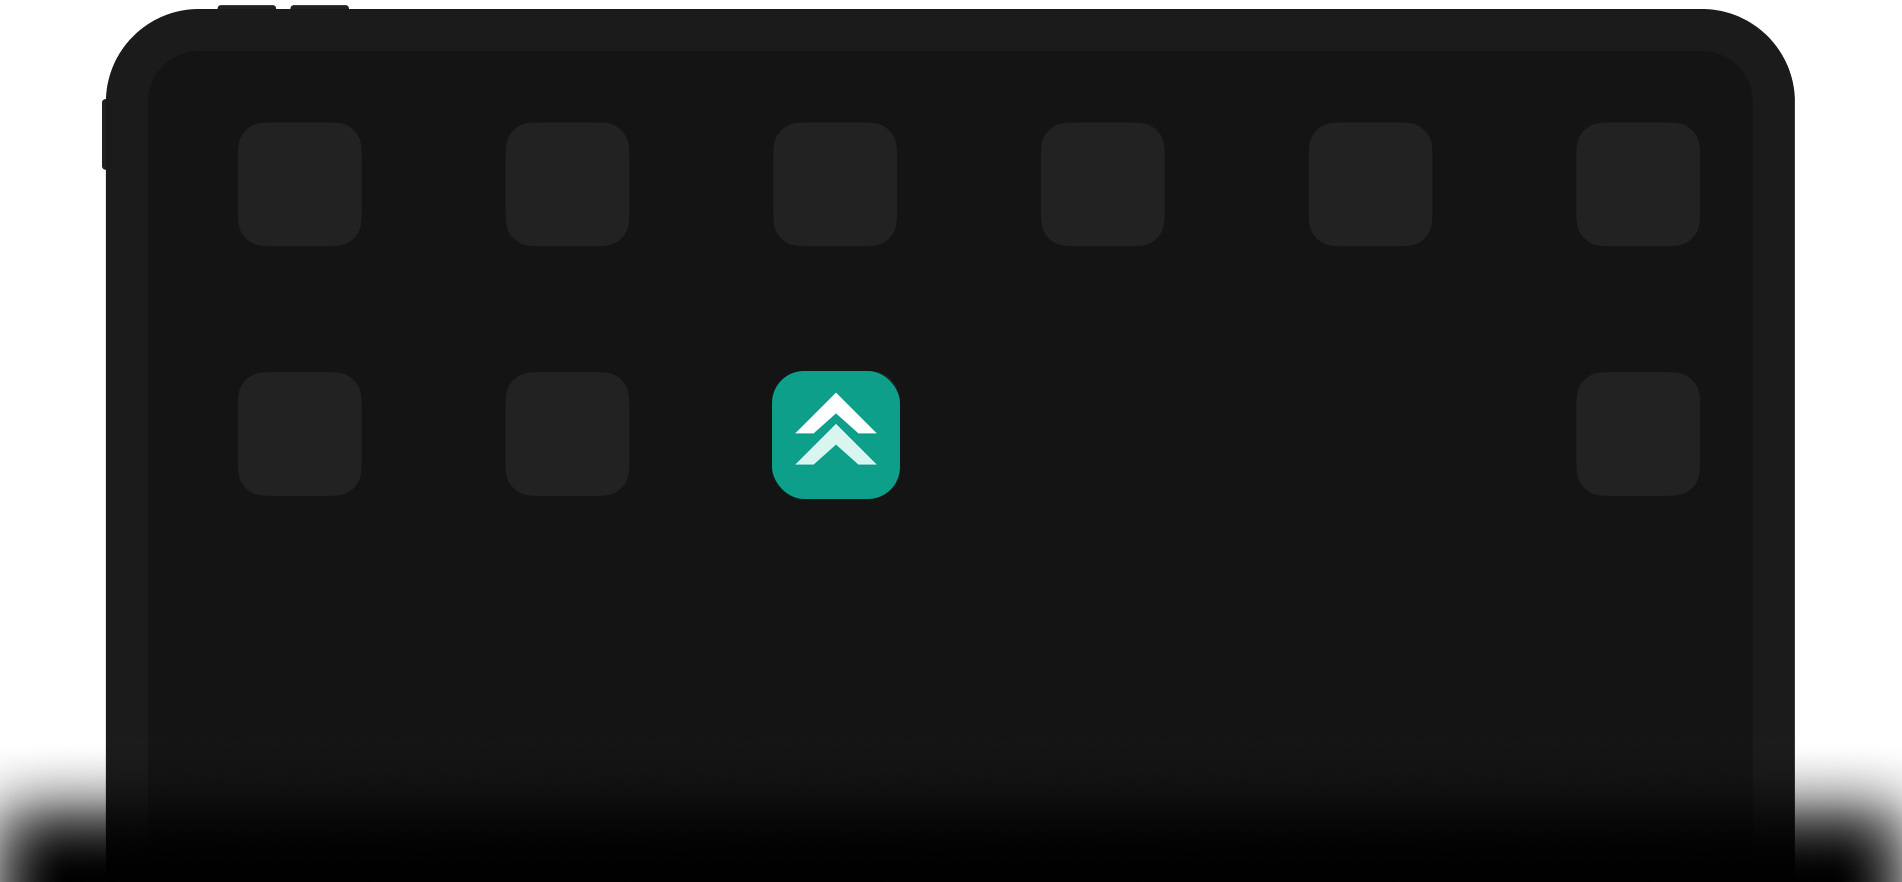
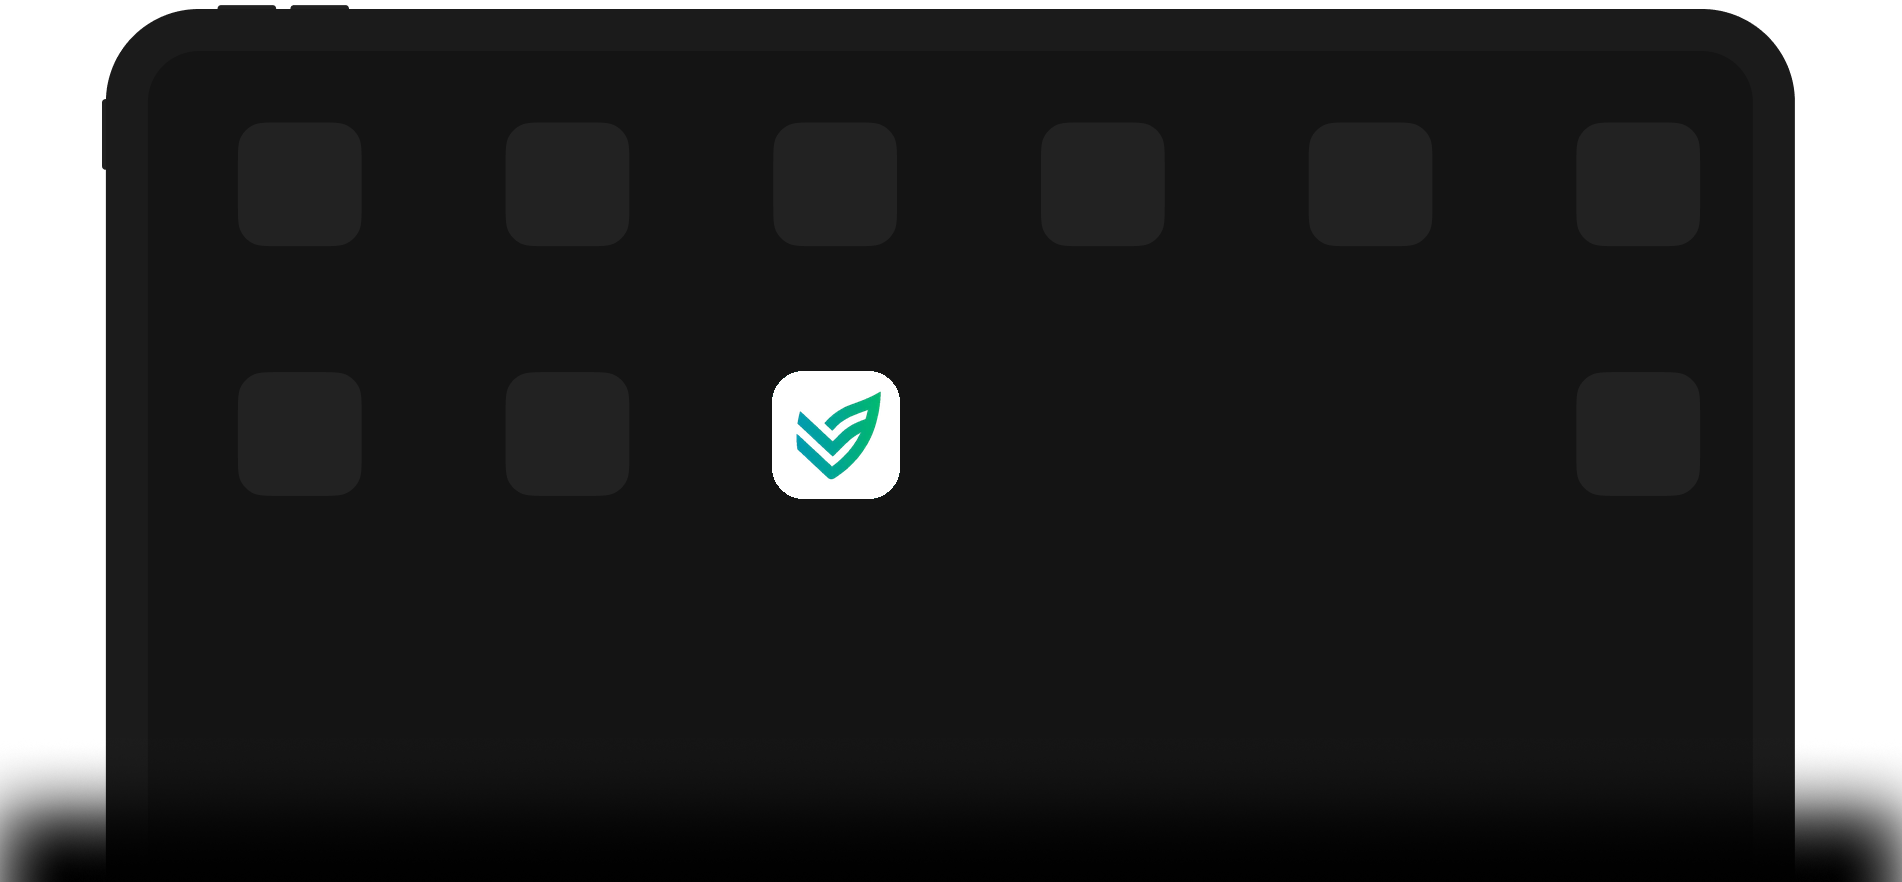
Use canonical header branding across app

Changed region(s): [[0.4033, 0.398, 0.4963, 0.5816]]

diff --git a/src/components/brand/logo.tsx b/src/components/brand/logo.tsx
@@ -1,50 +1,21 @@
 import { Link } from "@tanstack/react-router";
 import { cn } from "@/lib/utils";
 
-export function Logo({
-  className,
-  image = false,
-}: {
-  className?: string;
-  image?: boolean;
-}) {
+/** The single canonical enV wordmark used by all application brand placements. */
+export function Logo({ className }: { className?: string }) {
   return (
     <Link
       to="/"
-      className={cn("inline-flex items-center gap-2.5 text-fg no-underline", className)}
+      className={cn("inline-flex items-center text-fg no-underline", className)}
       aria-label="enV home"
     >
-      {image ? (
-        <img
-          src="/logo-header-transparent.png"
-          alt="enV"
-          className="h-14 w-[84px] object-contain sm:h-16 sm:w-24"
-        />
-      ) : (
-        <>
-          <svg viewBox="0 0 48 48" className="size-8 shrink-0" aria-hidden="true">
-            <path
-              d="M8 30.5 24 12.5 40 30.5"
-              fill="none"
-              stroke="#12A38A"
-              strokeWidth="5.5"
-              strokeLinecap="round"
-              strokeLinejoin="round"
-            />
-            <path
-              d="M12.5 36.5 24 23.5 35.5 36.5"
-              fill="none"
-              stroke="#1DB87A"
-              strokeWidth="5.5"
-              strokeLinecap="round"
-              strokeLinejoin="round"
-            />
-          </svg>
-          <span className="text-[1.35rem] font-semibold tracking-tight">
-            en<span className="text-accent">V</span>
-          </span>
-        </>
-      )}
+      <img
+        src="/logo-header-transparent.png"
+        alt=""
+        width={96}
+        height={64}
+        className="h-14 w-[84px] object-contain sm:h-16 sm:w-24"
+      />
     </Link>
   );
 }

diff --git a/scripts/install-page.html b/scripts/install-page.html
@@ -11,6 +11,7 @@
     <meta name="apple-mobile-web-app-status-bar-style" content="black" />
     <meta name="apple-mobile-web-app-title" content="{{APP_NAME}}" />
     <title>Add {{APP_NAME}} to your Home Screen</title>
+    <link rel="icon" type="image/png" href="/favicon.png" />
     <link rel="manifest" href="/pwa/manifest.webmanifest" />
     <link rel="apple-touch-icon" href="/pwa/icon-180.png" />
     <link rel="stylesheet" href="/pwa/install/styles.css" />
@@ -64,12 +65,11 @@
         <span class="powered-brand">
           <img
             class="app-logo"
-            src="/favicon.svg"
-            width="14"
-            height="14"
+            src="/logo-header-transparent.png"
+            width="96"
+            height="64"
             alt=""
           />
-          <span class="powered-app">enV</span>
         </span>
       </header>
 

diff --git a/public/pwa/install/styles.css b/public/pwa/install/styles.css
@@ -77,14 +77,13 @@ img {
   display: flex;
   align-items: center;
   justify-content: center;
-  gap: 6px;
-  min-height: 20px;
+  gap: 4px;
+  min-height: 40px;
   margin: 0 auto;
   flex: 0 0 auto;
 }
 
-.powered-by,
-.powered-app {
+.powered-by {
   font-size: var(--text-footnote);
   font-weight: var(--weight-medium);
   letter-spacing: -0.01em;
@@ -99,19 +98,16 @@ img {
 .powered-brand {
   display: inline-flex;
   align-items: center;
-  gap: 4px;
-  height: 20px;
+  width: 60px;
+  height: 40px;
 }
 
 .app-logo {
   display: block;
-  width: 14px;
-  height: 14px;
-  flex: 0 0 14px;
-}
-
-.powered-app {
-  color: rgba(255, 255, 255, 0.6);
+  width: 60px;
+  height: 40px;
+  flex: 0 0 60px;
+  object-fit: contain;
 }
 
 .content {

diff --git a/src/routes/__root.tsx b/src/routes/__root.tsx
@@ -12,7 +12,7 @@ export const Route = createRootRoute({
       { name: "theme-color", content: "#0d9f8a" },
     ],
     links: [
-      { rel: "icon", type: "image/svg+xml", href: "/favicon.svg" },
+      { rel: "icon", type: "image/png", href: "/favicon.png" },
       { rel: "stylesheet", href: appCss },
       { rel: "manifest", href: "/pwa/manifest.webmanifest" },
       { rel: "apple-touch-icon", href: "/pwa/icon-180.png" },

diff --git a/src/components/layout/header.tsx b/src/components/layout/header.tsx
@@ -19,7 +19,7 @@ export function Header() {
   return (
     <header className="sticky top-0 z-30 border-b border-border bg-bg/90 backdrop-blur-md">
       <div className="mx-auto flex h-14 max-w-6xl items-center gap-4 px-4 sm:h-16 sm:px-6">
-        <Logo image />
+        <Logo />
         <nav className="ml-2 hidden items-center gap-1 md:flex" aria-label="Primary">
           {NAV.map((item) => (
             <Link

diff --git a/AGENTS.md b/AGENTS.md
@@ -14,6 +14,11 @@ enV is a browser-based toolkit built with React, TanStack Start, Vite, and Tailw
 - Use `src/routes/` for routes, `src/components/` for UI, and `src/lib/` for reusable logic.
 - Keep generated route-tree files out of commits; the TanStack/Vite build generates them.
 
+## Brand system
+
+- Use `src/components/brand/logo.tsx` for every full enV lockup; it renders the canonical `public/logo-header-transparent.png` asset used by the header.
+- Do not recreate the wordmark or draw an alternate logo inline. Browser and PWA icons use the matching header-derived PNG assets.
+
 ## Vercel deployment
 
 Vercel uses the committed `package-lock.json`, installs production dependencies, and builds with `npm run build`. The app uses the Nitro Vercel preset in `vite.config.ts`. Set `BETTER_AUTH_URL`, `BETTER_AUTH_SECRET`, `DATABASE_URL`, and OAuth credentials in Vercel only when enabling the optional authentication features.
